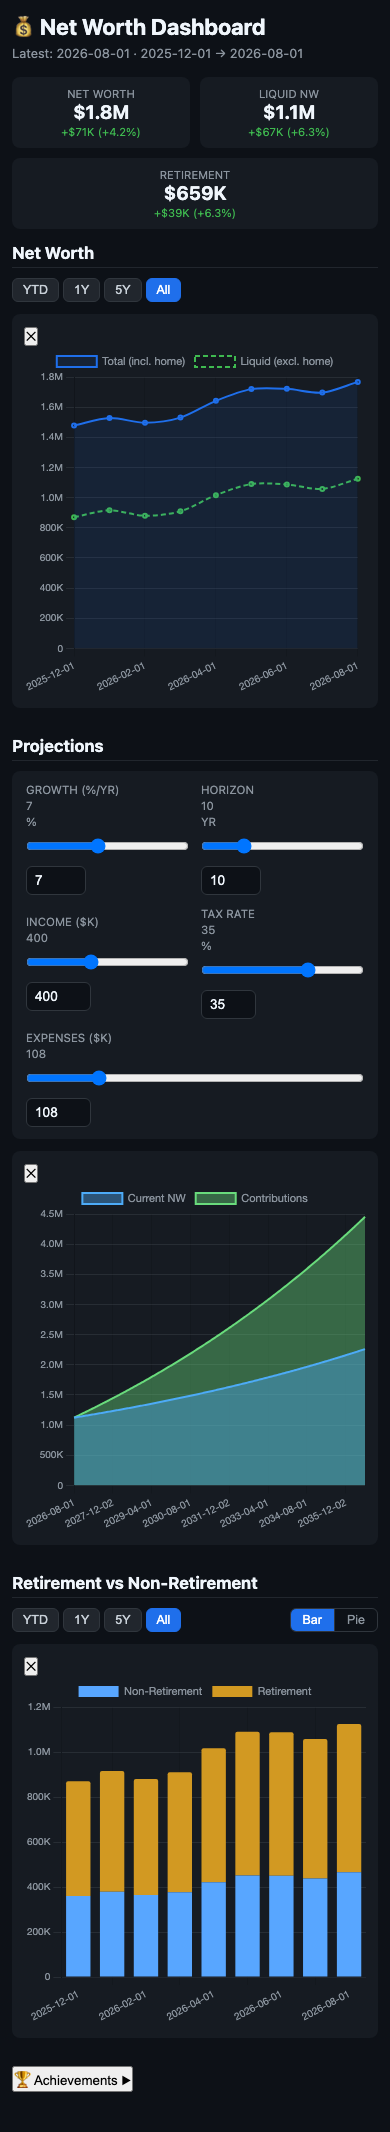
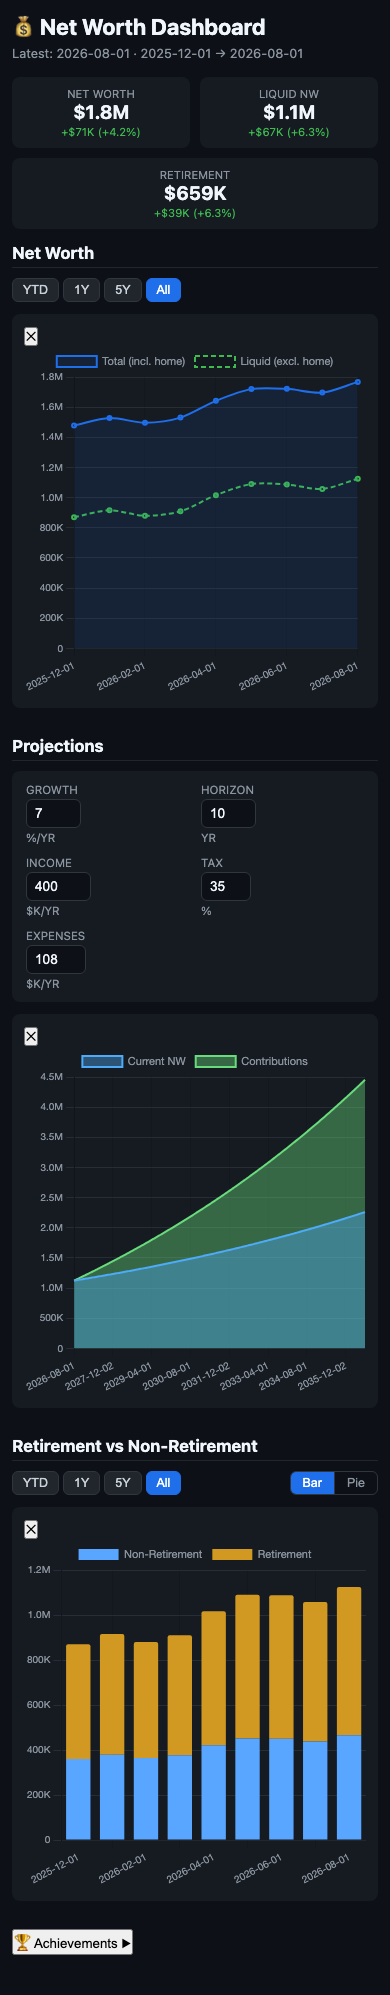
fix: remove stale span references causing JS error, clean projection input init

diff --git a/docs/index.html b/docs/index.html
@@ -146,26 +146,11 @@
   <div class="section" id="projectionSection">
     <h2>Projections</h2>
     <div class="proj-controls" id="projControls">
-      <label>Growth (%/yr) <span id="projGrowthVal">7</span>% 
-        <input type="range" id="projGrowth" min="1" max="15" step="0.5" value="7" oninput="syncProjInput('projGrowth','projGrowthNum')">
-        <input type="number" id="projGrowthNum" min="1" max="15" step="0.5" value="7" onchange="syncProjInput('projGrowthNum','projGrowth')" style="width:60px;margin-top:2px;">
-      </label>
-      <label>Horizon <span id="projHorizonVal">10</span>yr 
-        <input type="range" id="projHorizon" min="5" max="30" step="5" value="10" oninput="syncProjInput('projHorizon','projHorizonNum')">
-        <input type="number" id="projHorizonNum" min="5" max="30" step="5" value="10" onchange="syncProjInput('projHorizonNum','projHorizon')" style="width:60px;margin-top:2px;">
-      </label>
-      <label>Income ($K) <span id="projIncomeVal">400</span> 
-        <input type="range" id="projIncome" min="50" max="1000" step="5" value="400" oninput="syncProjInput('projIncome','projIncomeNum')">
-        <input type="number" id="projIncomeNum" min="50" max="1000" step="5" value="400" onchange="syncProjInput('projIncomeNum','projIncome')" style="width:65px;margin-top:2px;">
-      </label>
-      <label>Tax rate <span id="projTaxVal">35</span>% 
-        <input type="range" id="projTax" min="0" max="50" step="1" value="35" oninput="syncProjInput('projTax','projTaxNum')">
-        <input type="number" id="projTaxNum" min="0" max="50" step="1" value="35" onchange="syncProjInput('projTaxNum','projTax')" style="width:55px;margin-top:2px;">
-      </label>
-      <label>Expenses ($K) <span id="projExpensesVal">108</span> 
-        <input type="range" id="projExpenses" min="20" max="500" step="1" value="108" oninput="syncProjInput('projExpenses','projExpensesNum')">
-        <input type="number" id="projExpensesNum" min="20" max="500" step="1" value="108" onchange="syncProjInput('projExpensesNum','projExpenses')" style="width:65px;margin-top:2px;">
-      </label>
+      <label>Growth <input type="number" id="projGrowth" min="1" max="15" step="0.5" value="7" onchange="recalcProjections()" style="width:55px"> %/yr</label>
+      <label>Horizon <input type="number" id="projHorizon" min="5" max="30" step="5" value="10" onchange="recalcProjections()" style="width:55px"> yr</label>
+      <label>Income <input type="number" id="projIncome" min="50" max="1000" step="5" value="400" onchange="recalcProjections()" style="width:65px"> $K/yr</label>
+      <label>Tax <input type="number" id="projTax" min="0" max="50" step="1" value="35" onchange="recalcProjections()" style="width:50px"> %</label>
+      <label>Expenses <input type="number" id="projExpenses" min="20" max="500" step="1" value="108" onchange="recalcProjections()" style="width:60px"> $K/yr</label>
     </div>
     <div class="chart-wrapper"><button class="tt-dismiss" id="ttDismissProj" onclick="dismissTooltip('projections')" title="Dismiss tooltip">✕</button><canvas id="chartProjections"></canvas></div>
   </div>
@@ -191,30 +176,8 @@
 </div>
 
 <script>
[2 lines of base64/hex data omitted]
 Chart.register(ChartDataLabels);
-
-// --- Sync slider + number input for projections ---
-const PROJ_PAIRS = [
-  ['projGrowth','projGrowthNum','projGrowthVal'],
-  ['projHorizon','projHorizonNum','projHorizonVal'],
-  ['projIncome','projIncomeNum','projIncomeVal'],
-  ['projTax','projTaxNum','projTaxVal'],
-  ['projExpenses','projExpensesNum','projExpensesVal'],
-];
-function syncProjInput(srcId, dstId) {
-  const src = document.getElementById(srcId);
-  const dst = document.getElementById(dstId);
-  if (!src || !dst) return;
-  dst.value = src.value;
-  // Update the display span
-  for (const [slider, numEl, spanId] of PROJ_PAIRS) {
-    if (srcId === slider || srcId === numEl) {
-      document.getElementById(spanId).textContent = src.value;
-    }
-  }
-  recalcProjections();
-}
 
 function sha256(str) {
   const encoder = new TextEncoder();
@@ -578,15 +541,10 @@ function initDashboard() {
   makeTFBar('timeframeBarNW', 'nw', TF_MAIN, drawNW);
   drawNW();
   document.getElementById('projGrowth').value = '7';
-  document.getElementById('projGrowthVal').textContent = '7';
   document.getElementById('projHorizon').value = '10';
-  document.getElementById('projHorizonVal').textContent = '10';
   document.getElementById('projIncome').value = '400';
-  document.getElementById('projIncomeVal').textContent = '400';
   document.getElementById('projTax').value = '35';
-  document.getElementById('projTaxVal').textContent = '35';
   document.getElementById('projExpenses').value = '108';
-  document.getElementById('projExpensesVal').textContent = '108';
   recalcProjections();
   makeTFBar('timeframeBarStacked', 'stacked', TF_MAIN, drawStackedOrPie);
   drawStackedOrPie();

diff --git a/templates/index.html b/templates/index.html
@@ -146,26 +146,11 @@
   <div class="section" id="projectionSection">
     <h2>Projections</h2>
     <div class="proj-controls" id="projControls">
-      <label>Growth (%/yr) <span id="projGrowthVal">7</span>% 
-        <input type="range" id="projGrowth" min="1" max="15" step="0.5" value="7" oninput="syncProjInput('projGrowth','projGrowthNum')">
-        <input type="number" id="projGrowthNum" min="1" max="15" step="0.5" value="7" onchange="syncProjInput('projGrowthNum','projGrowth')" style="width:60px;margin-top:2px;">
-      </label>
-      <label>Horizon <span id="projHorizonVal">10</span>yr 
-        <input type="range" id="projHorizon" min="5" max="30" step="5" value="10" oninput="syncProjInput('projHorizon','projHorizonNum')">
-        <input type="number" id="projHorizonNum" min="5" max="30" step="5" value="10" onchange="syncProjInput('projHorizonNum','projHorizon')" style="width:60px;margin-top:2px;">
-      </label>
-      <label>Income ($K) <span id="projIncomeVal">400</span> 
-        <input type="range" id="projIncome" min="50" max="1000" step="5" value="400" oninput="syncProjInput('projIncome','projIncomeNum')">
-        <input type="number" id="projIncomeNum" min="50" max="1000" step="5" value="400" onchange="syncProjInput('projIncomeNum','projIncome')" style="width:65px;margin-top:2px;">
-      </label>
-      <label>Tax rate <span id="projTaxVal">35</span>% 
-        <input type="range" id="projTax" min="0" max="50" step="1" value="35" oninput="syncProjInput('projTax','projTaxNum')">
-        <input type="number" id="projTaxNum" min="0" max="50" step="1" value="35" onchange="syncProjInput('projTaxNum','projTax')" style="width:55px;margin-top:2px;">
-      </label>
-      <label>Expenses ($K) <span id="projExpensesVal">108</span> 
-        <input type="range" id="projExpenses" min="20" max="500" step="1" value="108" oninput="syncProjInput('projExpenses','projExpensesNum')">
-        <input type="number" id="projExpensesNum" min="20" max="500" step="1" value="108" onchange="syncProjInput('projExpensesNum','projExpenses')" style="width:65px;margin-top:2px;">
-      </label>
+      <label>Growth <input type="number" id="projGrowth" min="1" max="15" step="0.5" value="7" onchange="recalcProjections()" style="width:55px"> %/yr</label>
+      <label>Horizon <input type="number" id="projHorizon" min="5" max="30" step="5" value="10" onchange="recalcProjections()" style="width:55px"> yr</label>
+      <label>Income <input type="number" id="projIncome" min="50" max="1000" step="5" value="400" onchange="recalcProjections()" style="width:65px"> $K/yr</label>
+      <label>Tax <input type="number" id="projTax" min="0" max="50" step="1" value="35" onchange="recalcProjections()" style="width:50px"> %</label>
+      <label>Expenses <input type="number" id="projExpenses" min="20" max="500" step="1" value="108" onchange="recalcProjections()" style="width:60px"> $K/yr</label>
     </div>
     <div class="chart-wrapper"><button class="tt-dismiss" id="ttDismissProj" onclick="dismissTooltip('projections')" title="Dismiss tooltip">✕</button><canvas id="chartProjections"></canvas></div>
   </div>
@@ -193,28 +178,6 @@
 <script>
 const DATA = __CHART_DATA_JSON__;
 Chart.register(ChartDataLabels);
-
-// --- Sync slider + number input for projections ---
-const PROJ_PAIRS = [
-  ['projGrowth','projGrowthNum','projGrowthVal'],
-  ['projHorizon','projHorizonNum','projHorizonVal'],
-  ['projIncome','projIncomeNum','projIncomeVal'],
-  ['projTax','projTaxNum','projTaxVal'],
-  ['projExpenses','projExpensesNum','projExpensesVal'],
-];
-function syncProjInput(srcId, dstId) {
-  const src = document.getElementById(srcId);
-  const dst = document.getElementById(dstId);
-  if (!src || !dst) return;
-  dst.value = src.value;
-  // Update the display span
-  for (const [slider, numEl, spanId] of PROJ_PAIRS) {
-    if (srcId === slider || srcId === numEl) {
-      document.getElementById(spanId).textContent = src.value;
-    }
-  }
-  recalcProjections();
-}
 
 function sha256(str) {
   const encoder = new TextEncoder();
@@ -578,15 +541,10 @@ function initDashboard() {
   makeTFBar('timeframeBarNW', 'nw', TF_MAIN, drawNW);
   drawNW();
   document.getElementById('projGrowth').value = '7';
-  document.getElementById('projGrowthVal').textContent = '7';
   document.getElementById('projHorizon').value = '10';
-  document.getElementById('projHorizonVal').textContent = '10';
   document.getElementById('projIncome').value = '400';
-  document.getElementById('projIncomeVal').textContent = '400';
   document.getElementById('projTax').value = '35';
-  document.getElementById('projTaxVal').textContent = '35';
   document.getElementById('projExpenses').value = '108';
-  document.getElementById('projExpensesVal').textContent = '108';
   recalcProjections();
   makeTFBar('timeframeBarStacked', 'stacked', TF_MAIN, drawStackedOrPie);
   drawStackedOrPie();
